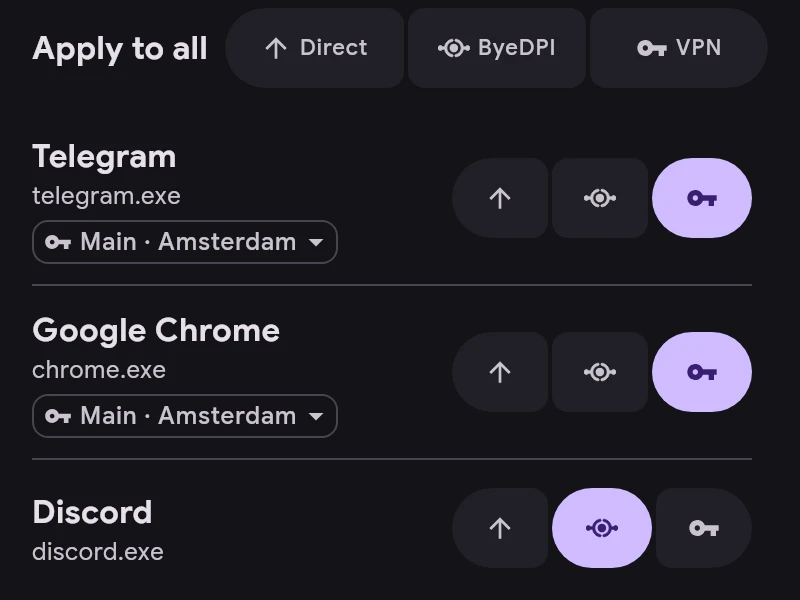
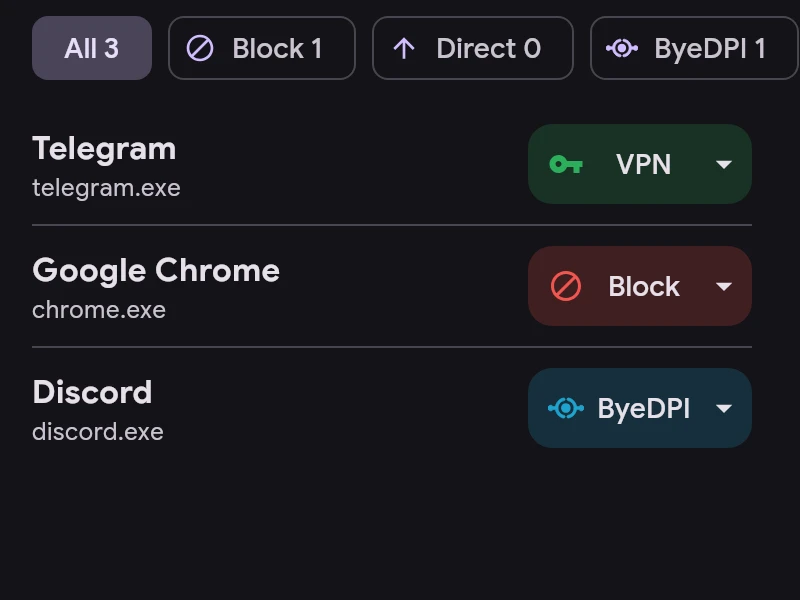
Update the Help articles and README for the 1.9 features
Channels covers the Block channel, the channel button and its server
row, the filters and multi-select, and that Block wins over rules.
Troubleshooting explains Pause and why blocking stops while ERKIN is
paused or off, in every app language, with a fresh Apps screenshot.
The README lists Block, rule servers and Pause.

diff --git a/ui/src/commonMain/composeResources/files/docs/uk/channels.md b/ui/src/commonMain/composeResources/files/docs/uk/channels.md
@@ -5,11 +5,14 @@
 - **Direct** — повз тунель, як без ERKIN.
 - **ByeDPI** — через ByeDPI на пристрої, сервер не потрібен.
 - **VPN** — через сервер.
+- **Block** — без доступу до мережі, доки ERKIN підключено.
 
 ![Застосунки](../img/uk/apps.webp)
 
-- Канал змінюється кнопками праворуч від застосунку.
-- «Застосувати до всіх» ставить канал усім застосункам у списку, а під час пошуку — лише знайденим. Дію можна скасувати.
-- У застосунку на VPN під назвою вказано сервер. Натисніть на нього, щоб вибрати застосунку власний сервер замість основного.
+- Канал вибирається кнопкою праворуч від застосунку. Якщо в застосунку власний сервер, на кнопці написано його назву.
+- У меню під VPN рядок «Сервер» задає застосунку власний сервер або ланцюжок замість основного.
+- Фільтри над списком показують, скільки застосунків у кожному каналі, і відбирають їх.
+- Щоб змінити кілька застосунків одразу, утримуйте застосунок або натисніть кнопку вибору в полі пошуку, позначте застосунки й виберіть канал чи сервер. Дію можна скасувати.
 - Канал для нових застосунків задається в «Налаштування → Застосунки». Застосунки ru, vk і yandex починають із Direct.
-- Правила важливіші за канал: якщо з’єднання збіглося з правилом, воно йде туди, куди вказує правило.
+- Правила важливіші за канал: якщо з’єднання збіглося з правилом, воно йде туди, куди вказує правило. VPN-правило теж може мати власний сервер.
+- Block важливіший за правила: заблокований застосунок зовсім не отримує мережу.

diff --git a/ui/src/commonMain/composeResources/files/docs/ru/channels.md b/ui/src/commonMain/composeResources/files/docs/ru/channels.md
@@ -5,11 +5,14 @@
 - **Direct** — мимо туннеля, как без ERKIN.
 - **ByeDPI** — через ByeDPI на устройстве, сервер не нужен.
 - **VPN** — через сервер.
+- **Block** — без доступа к сети, пока ERKIN подключён.
 
 ![Приложения](../img/ru/apps.webp)
 
-- Канал меняется кнопками справа от приложения.
-- «Применить ко всем» ставит канал всем приложениям в списке, а при поиске — только найденным. Действие можно отменить.
-- У приложения на VPN под названием указан сервер. Нажмите на него, чтобы выбрать приложению свой сервер вместо основного.
+- Канал выбирается кнопкой справа от приложения. Если у приложения свой сервер, на кнопке написано его название.
+- В меню под VPN строка «Сервер» задаёт приложению свой сервер или цепочку вместо основного.
+- Фильтры над списком показывают, сколько приложений в каждом канале, и отбирают их.
+- Чтобы изменить сразу несколько приложений, удерживайте приложение или нажмите кнопку выбора в поле поиска, отметьте приложения и выберите канал или сервер. Действие можно отменить.
 - Канал для новых приложений задаётся в «Настройки → Приложения». Приложения ru, vk и yandex начинают с Direct.
-- Правила важнее канала: если соединение совпало с правилом, оно идёт туда, куда указывает правило.
+- Правила важнее канала: если соединение совпало с правилом, оно идёт туда, куда указывает правило. У VPN-правила тоже может быть свой сервер.
+- Block важнее правил: заблокированное приложение не получает сеть совсем.

diff --git a/ui/src/commonMain/composeResources/files/docs/fa/channels.md b/ui/src/commonMain/composeResources/files/docs/fa/channels.md
@@ -5,11 +5,14 @@
 - **Direct** — بیرون از تونل، مثل وقتی که ERKIN نیست.
 - **ByeDPI** — از طریق ByeDPI روی دستگاه، بدون نیاز به سرور.
 - **VPN** — از طریق سرور.
+- **Block** — تا زمانی که ERKIN متصل است، بدون دسترسی به شبکه.
 
 ![برنامهها](../img/fa/apps.webp)
 
-- کانال با دکمههای کنار هر برنامه عوض میشود.
-- «اعمال به همه» کانال را برای همهٔ برنامههای فهرست، و هنگام جستوجو فقط برای نتایج، تنظیم میکند. قابل لغو است.
-- زیر نام برنامهای که روی VPN است سرورش نوشته شده. برای انتخاب سرور جداگانه بهجای سرور اصلی روی آن بزنید.
+- کانال با دکمهٔ کنار هر برنامه انتخاب میشود. اگر برنامه سرور جداگانه داشته باشد، نام آن روی دکمه نوشته میشود.
+- در منو، ردیف «سرور» زیر VPN برای برنامه بهجای سرور اصلی یک سرور یا زنجیرهٔ جداگانه تعیین میکند.
+- فیلترهای بالای فهرست تعداد برنامههای هر کانال را نشان میدهند و فهرست را صافی میکنند.
+- برای تغییر چند برنامه با هم، روی یک برنامه نگه دارید یا دکمهٔ انتخاب را در کادر جستوجو بزنید، برنامهها را علامت بزنید و کانال یا سرور را انتخاب کنید. قابل لغو است.
 - کانال برنامههای جدید در «تنظیمات ← برنامهها» تعیین میشود. برنامههای ru، vk و yandex با Direct شروع میکنند.
-- قوانین بر کانال مقدماند: اتصالی که با قانونی منطبق شود به مقصد آن قانون میرود.
+- قوانین بر کانال مقدماند: اتصالی که با قانونی منطبق شود به مقصد آن قانون میرود. قانون VPN هم میتواند سرور جداگانه داشته باشد.
+- Block بر قوانین مقدم است: برنامهٔ مسدودشده اصلاً به شبکه دسترسی ندارد.

diff --git a/ui/src/commonMain/composeResources/files/docs/tr/channels.md b/ui/src/commonMain/composeResources/files/docs/tr/channels.md
@@ -5,11 +5,14 @@ Her uygulama bir kanal kullanır:
 - **Direct** — tünelin dışından, ERKIN yokmuş gibi.
 - **ByeDPI** — cihazdaki ByeDPI üzerinden, sunucu gerekmez.
 - **VPN** — bir sunucu üzerinden.
+- **Block** — ERKIN bağlıyken ağ erişimi yok.
 
 ![Uygulamalar](../img/tr/apps.webp)
 
-- Kanal, uygulamanın sağındaki düğmelerle değiştirilir.
-- Tümüne uygula kanalı listedeki tüm uygulamalara, aramada ise yalnızca bulunanlara uygular. Geri alınabilir.
-- VPN’deki bir uygulamanın adının altında sunucusu yazar. Ana sunucu yerine uygulamaya kendi sunucusunu seçmek için üzerine dokunun.
-- Yeni uygulamaların kanalı Ayarlar → Uygulamalar’da belirlenir. ru, vk ve yandex uygulamaları Direct ile başlar.
-- Kurallar kanaldan önce gelir: bir kurala uyan bağlantı, kuralın gösterdiği yere gider.
+- Kanal, uygulamanın sağındaki düğmeyle seçilir. Uygulamanın kendi sunucusu varsa düğmede sunucunun adı yazar.
+- Menüde VPN'in altındaki Sunucu satırı, uygulamaya ana sunucu yerine kendi sunucusunu veya zincirini verir.
+- Listenin üstündeki filtreler her kanaldaki uygulama sayısını gösterir ve listeyi süzer.
+- Birden fazla uygulamayı aynı anda değiştirmek için bir uygulamaya uzun basın veya arama alanındaki seçim düğmesine dokunun, uygulamaları işaretleyin ve bir kanal ya da sunucu seçin. Geri alınabilir.
+- Yeni uygulamaların kanalı Ayarlar → Uygulamalar'da belirlenir. ru, vk ve yandex uygulamaları Direct ile başlar.
+- Kurallar kanaldan önce gelir: bir kurala uyan bağlantı, kuralın gösterdiği yere gider. VPN kuralının da kendi sunucusu olabilir.
+- Block kurallardan önce gelir: engellenen uygulama hiç ağ erişimi almaz.

diff --git a/ui/src/commonMain/composeResources/files/docs/uz/channels.md b/ui/src/commonMain/composeResources/files/docs/uz/channels.md
@@ -5,11 +5,14 @@ Har bir ilova kanallardan biri orqali ishlaydi:
 - **Direct** — tunneldan tashqarida, ERKINsiz holatdagidek.
 - **ByeDPI** — qurilmadagi ByeDPI orqali, server kerak emas.
 - **VPN** — server orqali.
+- **Block** — ERKIN ulangan paytda tarmoqqa kirishsiz.
 
 ![Ilovalar](../img/uz/apps.webp)
 
-- Kanal ilovaning oʻng tomonidagi tugmalar bilan oʻzgartiriladi.
-- «Hammasiga qoʻllash» kanalni roʻyxatdagi barcha ilovalarga, qidiruvda esa faqat topilganlariga qoʻyadi. Amalni bekor qilish mumkin.
-- VPN’dagi ilova nomi ostida server koʻrsatilgan. Asosiy server oʻrniga ilovaga alohida server tanlash uchun ustiga bosing.
+- Kanal ilovaning oʻng tomonidagi tugma bilan tanlanadi. Ilovaning alohida serveri boʻlsa, tugmada uning nomi yoziladi.
+- Menyuda VPN ostidagi «Server» qatori ilovaga asosiy server oʻrniga alohida server yoki zanjir beradi.
+- Roʻyxat ustidagi filtrlar har bir kanalda nechta ilova borligini koʻrsatadi va ularni saralaydi.
+- Bir nechta ilovani birdaniga oʻzgartirish uchun ilovani bosib turing yoki qidiruv maydonidagi tanlash tugmasini bosing, ilovalarni belgilang va kanal yoki serverni tanlang. Amalni bekor qilish mumkin.
 - Yangi ilovalar uchun kanal «Sozlamalar → Ilovalar»da belgilanadi. ru, vk va yandex ilovalari Direct bilan boshlanadi.
-- Qoidalar kanaldan ustun: ulanish qoidaga mos kelsa, qoida koʻrsatgan joyga ketadi.
+- Qoidalar kanaldan ustun: ulanish qoidaga mos kelsa, qoida koʻrsatgan joyga ketadi. VPN qoidasining ham alohida serveri boʻlishi mumkin.
+- Block qoidalardan ustun: bloklangan ilova umuman tarmoq olmaydi.

diff --git a/ui/src/commonMain/composeResources/files/docs/en/channels.md b/ui/src/commonMain/composeResources/files/docs/en/channels.md
@@ -5,11 +5,14 @@ Every app uses one channel:
 - **Direct** — outside the tunnel, as without ERKIN.
 - **ByeDPI** — through ByeDPI on the device, no server needed.
 - **VPN** — through a server.
+- **Block** — no network while ERKIN is connected.
 
 ![Apps](../img/en/apps.webp)
 
-- Change the channel with the buttons to the right of an app.
-- Apply to all sets the channel for every app in the list, or only for the search results. It can be undone.
-- A VPN app shows its server under the name. Tap it to give the app its own server instead of the main one.
+- Tap the button to the right of an app to pick its channel. An app with its own server shows the server's name on the button.
+- In the menu, the Server row under VPN gives the app its own server or chain instead of the main one.
+- The chips above the list count the apps in each channel and filter the list.
+- To change several apps at once, long-press an app or tap the select button in the search field, check the apps and pick a channel or server. It can be undone.
 - The channel for new apps is set in Settings → Applications. ru, vk and yandex apps start in Direct.
-- Rules win over the channel: a connection that matches a rule goes where the rule says.
+- Rules win over the channel: a connection that matches a rule goes where the rule says. A VPN rule can have its own server too.
+- Block wins over rules: a blocked app gets no network at all.

diff --git a/ui/src/commonMain/composeResources/files/docs/zh/channels.md b/ui/src/commonMain/composeResources/files/docs/zh/channels.md
@@ -5,11 +5,14 @@
 - **Direct** — 不经过隧道，与没有 ERKIN 时相同。
 - **ByeDPI** — 经由设备上的 ByeDPI，无需服务器。
 - **VPN** — 经由服务器。
+- **Block** — ERKIN 连接期间无法访问网络。
 
 ![应用](../img/zh/apps.webp)
 
-- 用应用右侧的按钮切换通道。
-- “应用到全部”为列表中的所有应用设置通道；搜索时仅作用于搜索结果。可以撤销。
-- 使用 VPN 的应用在名称下方显示其服务器。点按它可为该应用选择单独的服务器，代替主服务器。
+- 点按应用右侧的按钮选择通道。如果应用有自己的服务器，按钮上会显示服务器名称。
+- 在菜单中，VPN 下方的“服务器”一行可为应用指定单独的服务器或链，代替主服务器。
+- 列表上方的筛选显示每个通道中的应用数量，并可筛选列表。
+- 要同时修改多个应用，请长按一个应用或点按搜索框中的选择按钮，勾选应用后选择通道或服务器。可以撤销。
 - 新应用的通道在“设置 → 应用”中设置。ru、vk 和 yandex 应用默认使用 Direct。
-- 规则优先于通道：匹配规则的连接按规则指定的方向走。
+- 规则优先于通道：匹配规则的连接按规则指定的方向走。VPN 规则也可以有自己的服务器。
+- Block 优先于规则：被阻止的应用完全无法联网。

diff --git a/README.md b/README.md
@@ -26,11 +26,16 @@ Get the latest APKs, the Windows installer and the Linux packages from
 
 ## Features
 
-- **Per-app routing.** Assign every app one of three modes:
+- **Per-app routing.** Assign every app one of four modes:
   - **Direct** — leaves the device normally, with its real IP and no overhead.
-  - **VPN** — tunnelled through your proxy server.
+  - **VPN** — tunnelled through your proxy server, the main one or a server or chain of its own.
   - **ByeDPI** — routed through a built-in engine that defeats DPI-based censorship
     locally, without any remote server.
+  - **Block** — no network at all while ERKIN is connected.
+- **Routing rules.** Send domains, IP ranges and rule lists to Direct, ByeDPI, VPN or Block,
+  each VPN rule through the main server or a server of its own.
+- **Pause from the notification.** On Android, pause the connection for a moment and resume
+  it from the notification without opening the app.
 - **Wide protocol support.** Import servers from `vless`, `vmess`, `trojan`,
   `shadowsocks`, `hysteria2` and `wireguard` share links, AmneziaWG `vpn://` links,
   WireGuard / AmneziaWG `.conf` files, or a subscription URL.

diff --git a/ui/src/commonMain/composeResources/files/docs/uk/start.md b/ui/src/commonMain/composeResources/files/docs/uk/start.md
@@ -2,7 +2,7 @@
 
 1. **Додайте сервер.** На головному екрані — «Додати сервер». Підходять посилання `vless://`, `vmess://`, `trojan://`, `ss://`, `hysteria2://`, `tuic://`, `anytls://`, `socks5://`, `https://`, AmneziaWG `vpn://`, посилання на підписку або файл конфігурації WireGuard, AmneziaWG чи OpenVPN.
 2. **Виберіть основний сервер** — натисніть на нього в списку. «Перевірити затримку» вимірює відгук усіх серверів.
-3. **Призначте застосункам канали** в розділі «Застосунки»: VPN, ByeDPI або Direct. Докладніше — у статті «Канали».
+3. **Призначте застосункам канали** в розділі «Застосунки»: VPN, ByeDPI, Direct або Block. Докладніше — у статті «Канали».
 4. **Підключіться** кнопкою на головному екрані.
 
 ![Головний екран](../img/uk/main.webp)

diff --git a/ui/src/commonMain/composeResources/files/docs/ru/start.md b/ui/src/commonMain/composeResources/files/docs/ru/start.md
@@ -2,7 +2,7 @@
 
 1. **Добавьте сервер.** На главном экране — «Добавить сервер». Подходят ссылки `vless://`, `vmess://`, `trojan://`, `ss://`, `hysteria2://`, `tuic://`, `anytls://`, `socks5://`, `https://`, AmneziaWG `vpn://`, ссылка на подписку или файл конфигурации WireGuard, AmneziaWG и OpenVPN.
 2. **Выберите основной сервер** — нажмите на него в списке. «Проверить задержку» измеряет отклик всех серверов.
-3. **Назначьте приложениям каналы** в разделе «Приложения»: VPN, ByeDPI или Direct. Подробнее — в статье «Каналы».
+3. **Назначьте приложениям каналы** в разделе «Приложения»: VPN, ByeDPI, Direct или Block. Подробнее — в статье «Каналы».
 4. **Подключитесь** кнопкой на главном экране.
 
 ![Главный экран](../img/ru/main.webp)

diff --git a/ui/src/commonMain/composeResources/files/docs/fa/start.md b/ui/src/commonMain/composeResources/files/docs/fa/start.md
@@ -2,7 +2,7 @@
 
 1. **سرور اضافه کنید.** در صفحهٔ اصلی «افزودن سرور» را بزنید. لینکهای `vless://`، `vmess://`، `trojan://`، `ss://`، `hysteria2://`، `tuic://`، `anytls://`، `socks5://`، `https://` و AmneziaWG `vpn://`، لینک اشتراک یا فایل پیکربندی WireGuard، AmneziaWG یا OpenVPN پذیرفته میشود.
 2. **سرور اصلی را انتخاب کنید:** در فهرست روی آن بزنید. «آزمایش تأخیر» پاسخ همهٔ سرورها را اندازه میگیرد.
-3. **برای برنامهها کانال تعیین کنید:** در «برنامهها» یکی از VPN، ByeDPI یا Direct. جزئیات در مقالهٔ «کانالها».
+3. **برای برنامهها کانال تعیین کنید:** در «برنامهها» یکی از VPN، ByeDPI، Direct یا Block. جزئیات در مقالهٔ «کانالها».
 4. **وصل شوید** با دکمهٔ صفحهٔ اصلی.
 
 ![صفحهٔ اصلی](../img/fa/main.webp)

diff --git a/ui/src/commonMain/composeResources/files/docs/ru/troubleshooting.md b/ui/src/commonMain/composeResources/files/docs/ru/troubleshooting.md
@@ -8,4 +8,8 @@
 
 **Не видно устройств домашней сети.** Включите «Обход LAN» в «Настройки → Сеть».
 
+**Пауза.** В уведомлении есть кнопка «Пауза»: ERKIN останавливает туннель, и приложения выходят в сеть напрямую, без VPN, ByeDPI, правил и блокировки. «Возобновить» подключает снова.
+
+**Заблокированное приложение всё равно работает с сетью.** Блокировка действует, только пока ERKIN подключён, а не на паузе и не после отключения.
+
 **Отправить отчёт.** «Логи» → «Поделиться». В отчёт попадают логи приложения, ядра и ByeDPI.
